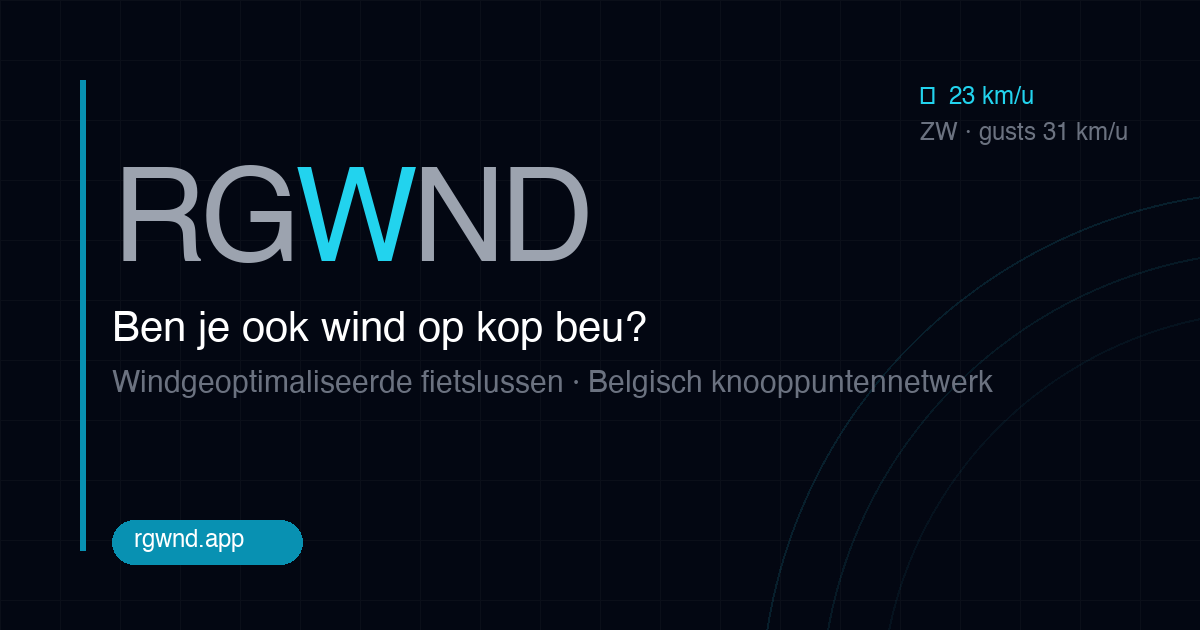
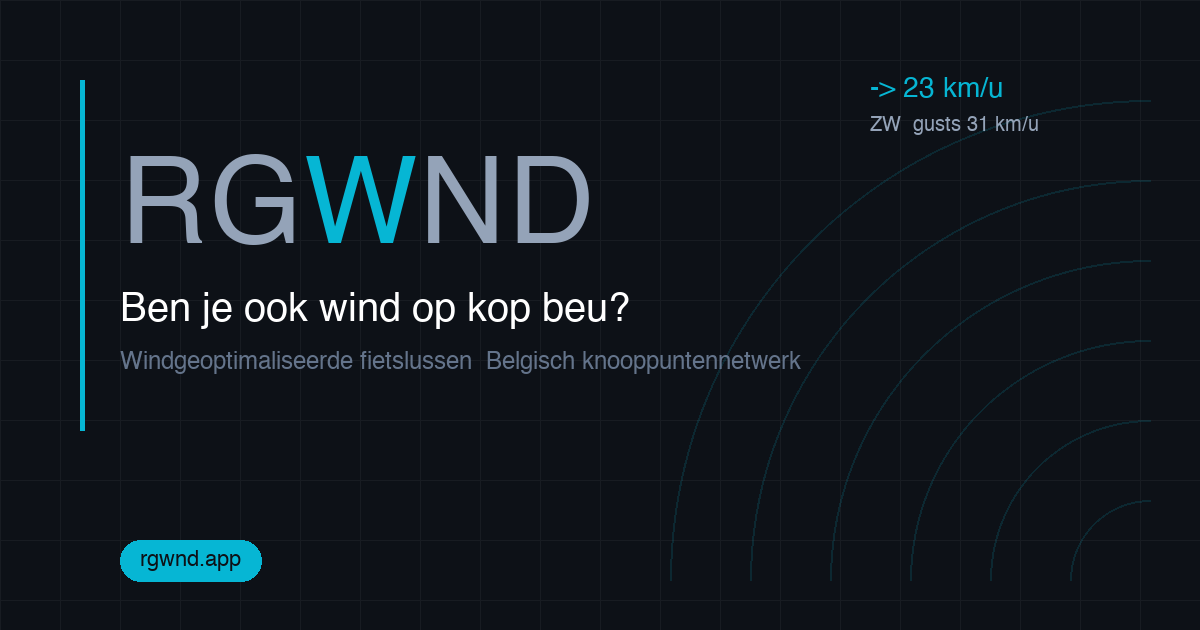
feat: improve SEO meta tags and fix og-image broken glyph
- Meta.svelte: add og:image dimensions (1200x630), og:image:alt, og:locale, og:site_name, twitter:image:alt
- +page.svelte: move Meta import to top of script, update title to 'Windgeoptimaliseerde fietslussen in België'
- app.html: remove duplicate OG/Twitter/SEO tags (now handled by Meta.svelte per-page)
- og-image.png: regenerate with ASCII arrow replacing broken □ glyph in wind widget

diff --git a/ui/src/app.html b/ui/src/app.html
@@ -9,33 +9,6 @@
 		<link rel="apple-touch-icon" href="/icon-192.png" />
 		<link rel="manifest" href="/manifest.json" />
 
-		<!-- SEO Primary -->
-		<title>RGWND | Optimaliseer je fietsknooppunten</title>
-		<meta name="description" content="Ben je ook wind op kop beu? Optimaliseer je fietsknooppunten met rgwnd.app. De slimme planner voor windgeoptimaliseerde fietslussen in België." />
-		<meta name="robots" content="index, follow" />
-		<link rel="canonical" href="https://rgwnd.app/" />
-		<link rel="alternate" href="https://rgwnd.app/" hreflang="nl-BE" />
-
-		<!-- Open Graph / Facebook -->
-		<meta property="og:title" content="RGWND | Optimaliseer je fietsknooppunten" />
-		<meta
-			property="og:description"
-			content="Ben je ook wind op kop beu? Optimaliseer je fietsknooppunten met rgwnd.app."
-		/>
-		<meta property="og:type" content="website" />
-		<meta property="og:url" content="https://rgwnd.app" />
-		<meta property="og:locale" content="nl_BE" />
-		<meta property="og:image" content="https://rgwnd.app/og-image.png" />
-
-		<!-- Twitter -->
-		<meta name="twitter:card" content="summary_large_image" />
-		<meta name="twitter:title" content="RGWND | Optimaliseer je fietsknooppunten" />
-		<meta
-			name="twitter:description"
-			content="Ben je ook wind op kop beu? Optimaliseer je fietsknooppunten met rgwnd.app."
-		/>
-		<meta name="twitter:image" content="https://rgwnd.app/og-image.png" />
-
 		%sveltekit.head%
 
 		<!-- Structured data: WebSite + Organization -->

diff --git a/ui/src/lib/Meta.svelte b/ui/src/lib/Meta.svelte
@@ -22,6 +22,11 @@
   <meta property="og:type" content="website" />
   <meta property="og:url" content={canonical} />
   <meta property="og:image" content={imageUrl} />
+  <meta property="og:image:width" content="1200" />
+  <meta property="og:image:height" content="630" />
+  <meta property="og:image:alt" content={title} />
+  <meta property="og:locale" content="nl_BE" />
+  <meta property="og:site_name" content="RGWND" />
 
   <meta name="twitter:card" content="summary_large_image" />
   <meta name="twitter:title" content={title} />
@@ -29,6 +34,7 @@
     <meta name="twitter:description" content={description} />
   {/if}
   <meta name="twitter:image" content={imageUrl} />
+  <meta name="twitter:image:alt" content={title} />
 
   <link rel="canonical" href={canonical} />
   {#if noindex}

diff --git a/ui/src/routes/+page.svelte b/ui/src/routes/+page.svelte
@@ -5,6 +5,7 @@
 	import 'leaflet/dist/leaflet.css';
 	import { useClerkContext } from 'svelte-clerk';
 	import { goto } from '$app/navigation';
+	import Meta from '$lib/Meta.svelte';
 
 	import type { Map, Polyline, Marker, Circle } from 'leaflet';
 
@@ -612,11 +613,10 @@
 			nextArrowAt += interval;
 		}
 	}
-import Meta from '$lib/Meta.svelte';
 </script>
 
 <Meta
-	title="RGWND | Optimaliseer je fietsknooppunten"
+	title="RGWND | Windgeoptimaliseerde fietslussen in België"
 	description="Ben je ook wind op kop beu? Optimaliseer je fietsknooppunten met rgwnd.app. De slimme planner voor windgeoptimaliseerde fietslussen in België."
 	path="/"
 />
